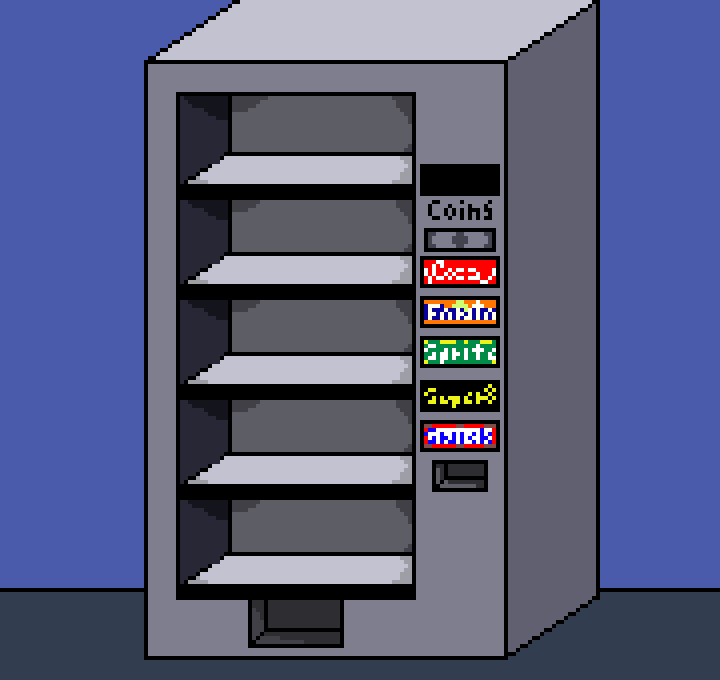
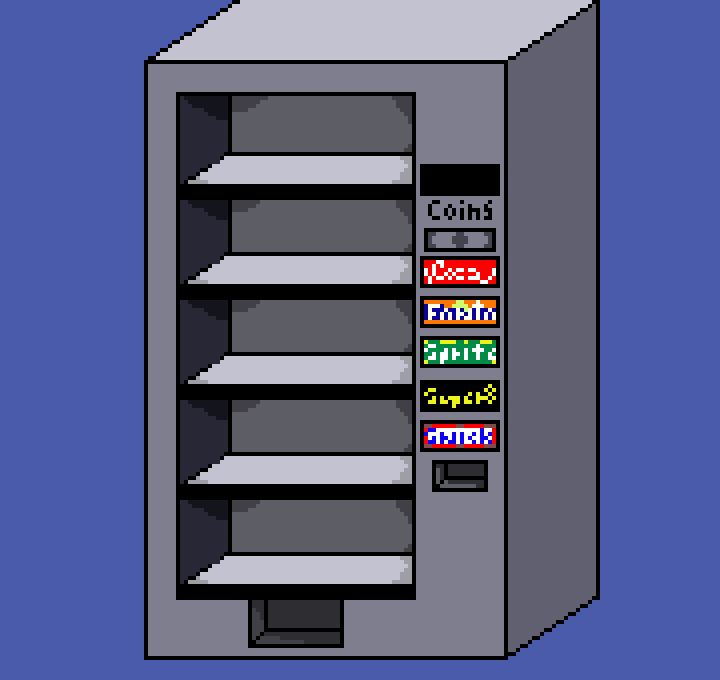
Cambios en los paintComponet de Billetera, Expendedor e Inventario

Changed region(s): [[0.0, 0.8647, 1.0, 1.0]]

diff --git a/Tarea-3-DOO/src/main/java/Vistas/PanelExpendedor.java b/Tarea-3-DOO/src/main/java/Vistas/PanelExpendedor.java
@@ -11,11 +11,17 @@ public class PanelExpendedor extends JPanel {
     private PanelSprite sprite;
     private PanelSuper8 super8;
     private PanelSnickers snickers;
+    protected Image image;
 
     public PanelExpendedor() {
         super();
         setSize(730, 710);
         setLayout(null);
+        try {
+            image = new ImageIcon(getClass().getClassLoader().getResource("Expendedor.png")).getImage();
+        } catch (Exception e) {
+            System.out.println("Error al cargar la imagen del expendedor.");
+        }
         coca = new PanelCoca();
         fanta = new PanelFanta();
         sprite = new PanelSprite();
@@ -61,13 +67,7 @@ public class PanelExpendedor extends JPanel {
     @Override
     protected void paintComponent(Graphics g) {
         super.paintComponent(g);
-        try {
-            ImageIcon imageIcon = new ImageIcon(getClass().getClassLoader().getResource("Expendedor.png"));
-            Image image = imageIcon.getImage();
-            g.drawImage(image,0, 0,null);
-        } catch (Exception e) {
-            System.out.println("Error al cargar la imagen del expendedor.");
-        }
+        g.drawImage(image,0, 0,null);
     }
 
     private void añadirBotonComprar(Productos p,int x, int y, int w, int h, String s){

diff --git a/Tarea-3-DOO/src/main/java/Vistas/PanelInventario.java b/Tarea-3-DOO/src/main/java/Vistas/PanelInventario.java
@@ -4,21 +4,21 @@ import javax.swing.*;
 import java.awt.*;
 
 public class PanelInventario extends JPanel {
+    protected Image image;
     public PanelInventario(){
         super();
         setSize(730, 710);
         setOpaque(false);
+        try {
+            image = new ImageIcon(getClass().getClassLoader().getResource("Inventario.png")).getImage();
+        } catch (Exception e) {
+            System.out.println("Error al cargar la imagen del expendedor.");
+        }
     }
 
     @Override
     protected void paintComponent(Graphics g) {
         super.paintComponent(g);
-        try {
-            ImageIcon imageIcon = new ImageIcon(getClass().getClassLoader().getResource("Inventario.png"));
-            Image image = imageIcon.getImage();
-            g.drawImage(image,540, 160,null);
-        } catch (Exception e) {
-            System.out.println("Error al cargar la imagen del expendedor.");
-        }
+        g.drawImage(image,540, 160,null);
     }
 }

diff --git a/Tarea-3-DOO/src/main/java/Vistas/PanelBilletera.java b/Tarea-3-DOO/src/main/java/Vistas/PanelBilletera.java
@@ -4,21 +4,21 @@ import javax.swing.*;
 import java.awt.*;
 
 public class PanelBilletera extends JPanel {
+    protected Image image;
     public PanelBilletera(){
         super();
         setSize(730, 710);
         setOpaque(false);
+        try {
+            image = new ImageIcon(getClass().getClassLoader().getResource("Billetera.png")).getImage();
+        } catch (Exception e) {
+            System.out.println("Error al cargar la imagen del expendedor.");
+        }
     }
 
     @Override
     protected void paintComponent(Graphics g) {
         super.paintComponent(g);
-        try {
-            ImageIcon imageIcon = new ImageIcon(getClass().getClassLoader().getResource("Billetera.png"));
-            Image image = imageIcon.getImage();
-            g.drawImage(image,0,0 ,null);
-        } catch (Exception e) {
-            System.out.println("Error al cargar la imagen del expendedor.");
-        }
+        g.drawImage(image,0,0 ,null);
     }
 }
